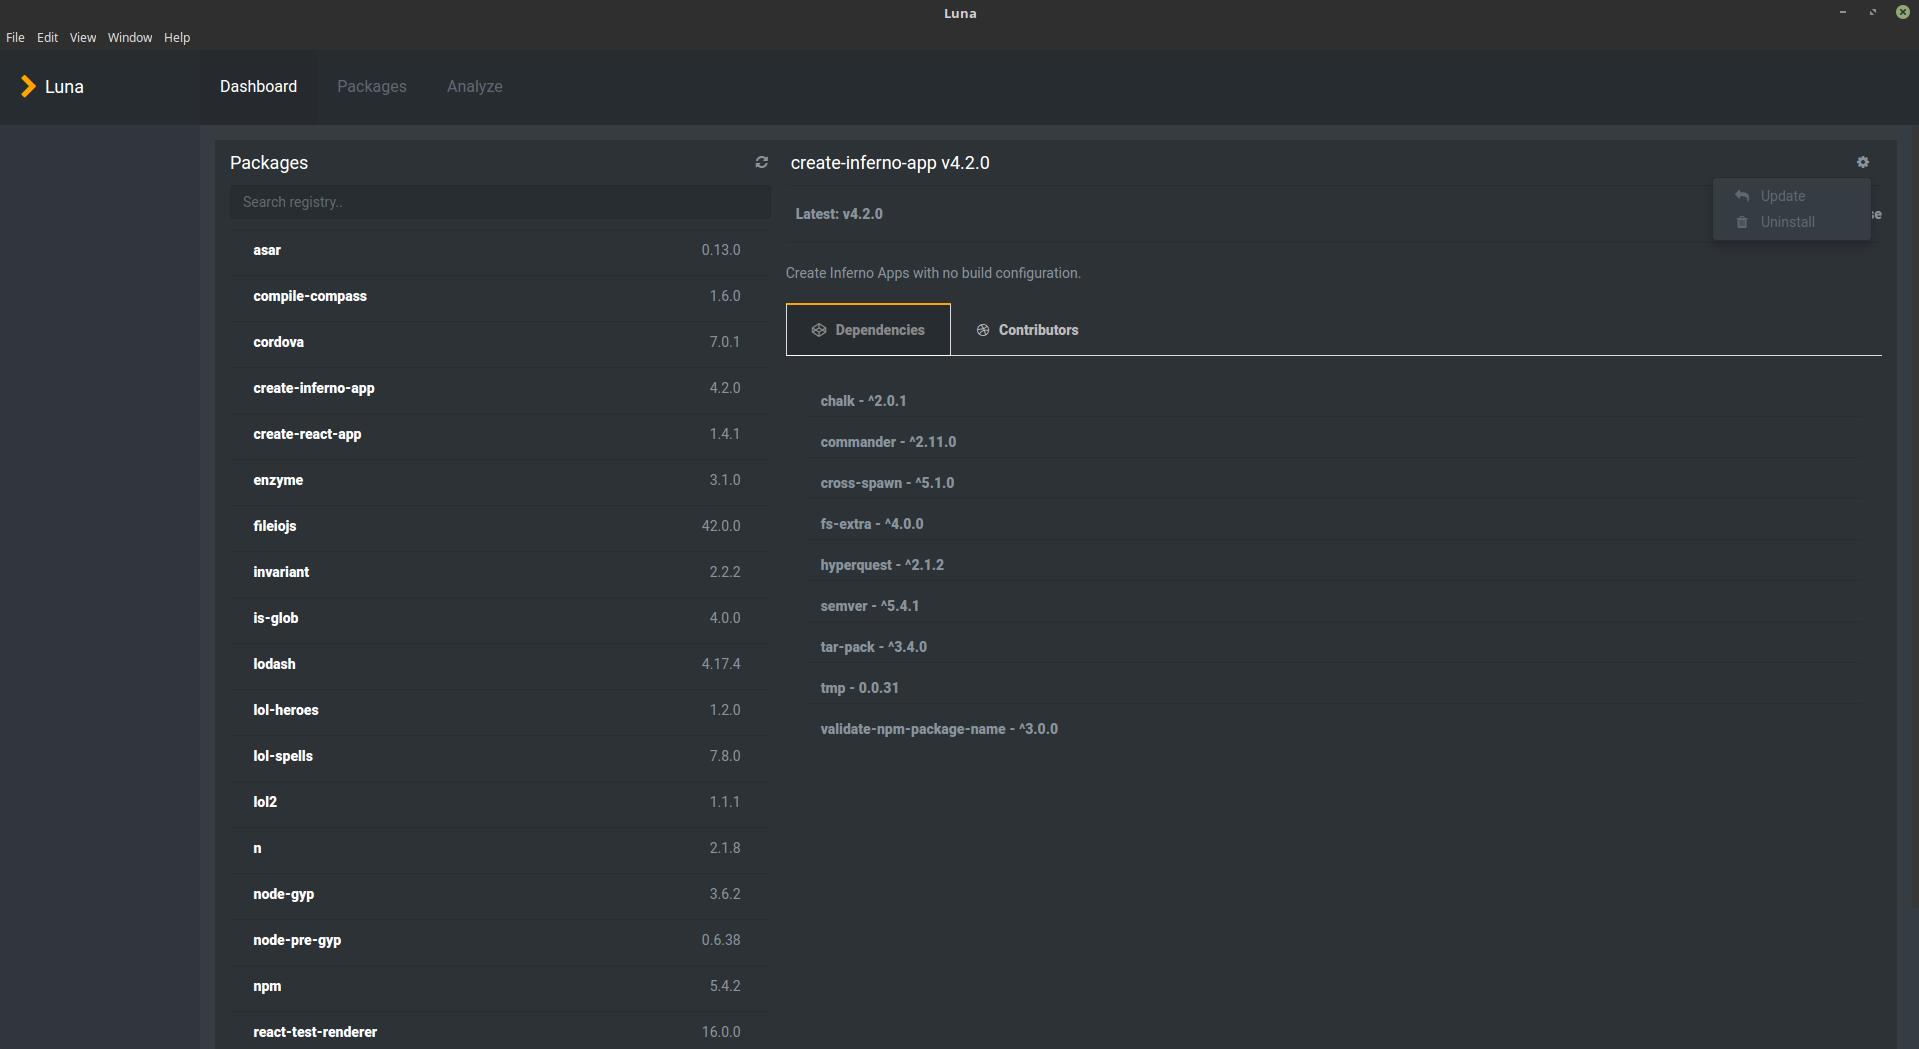
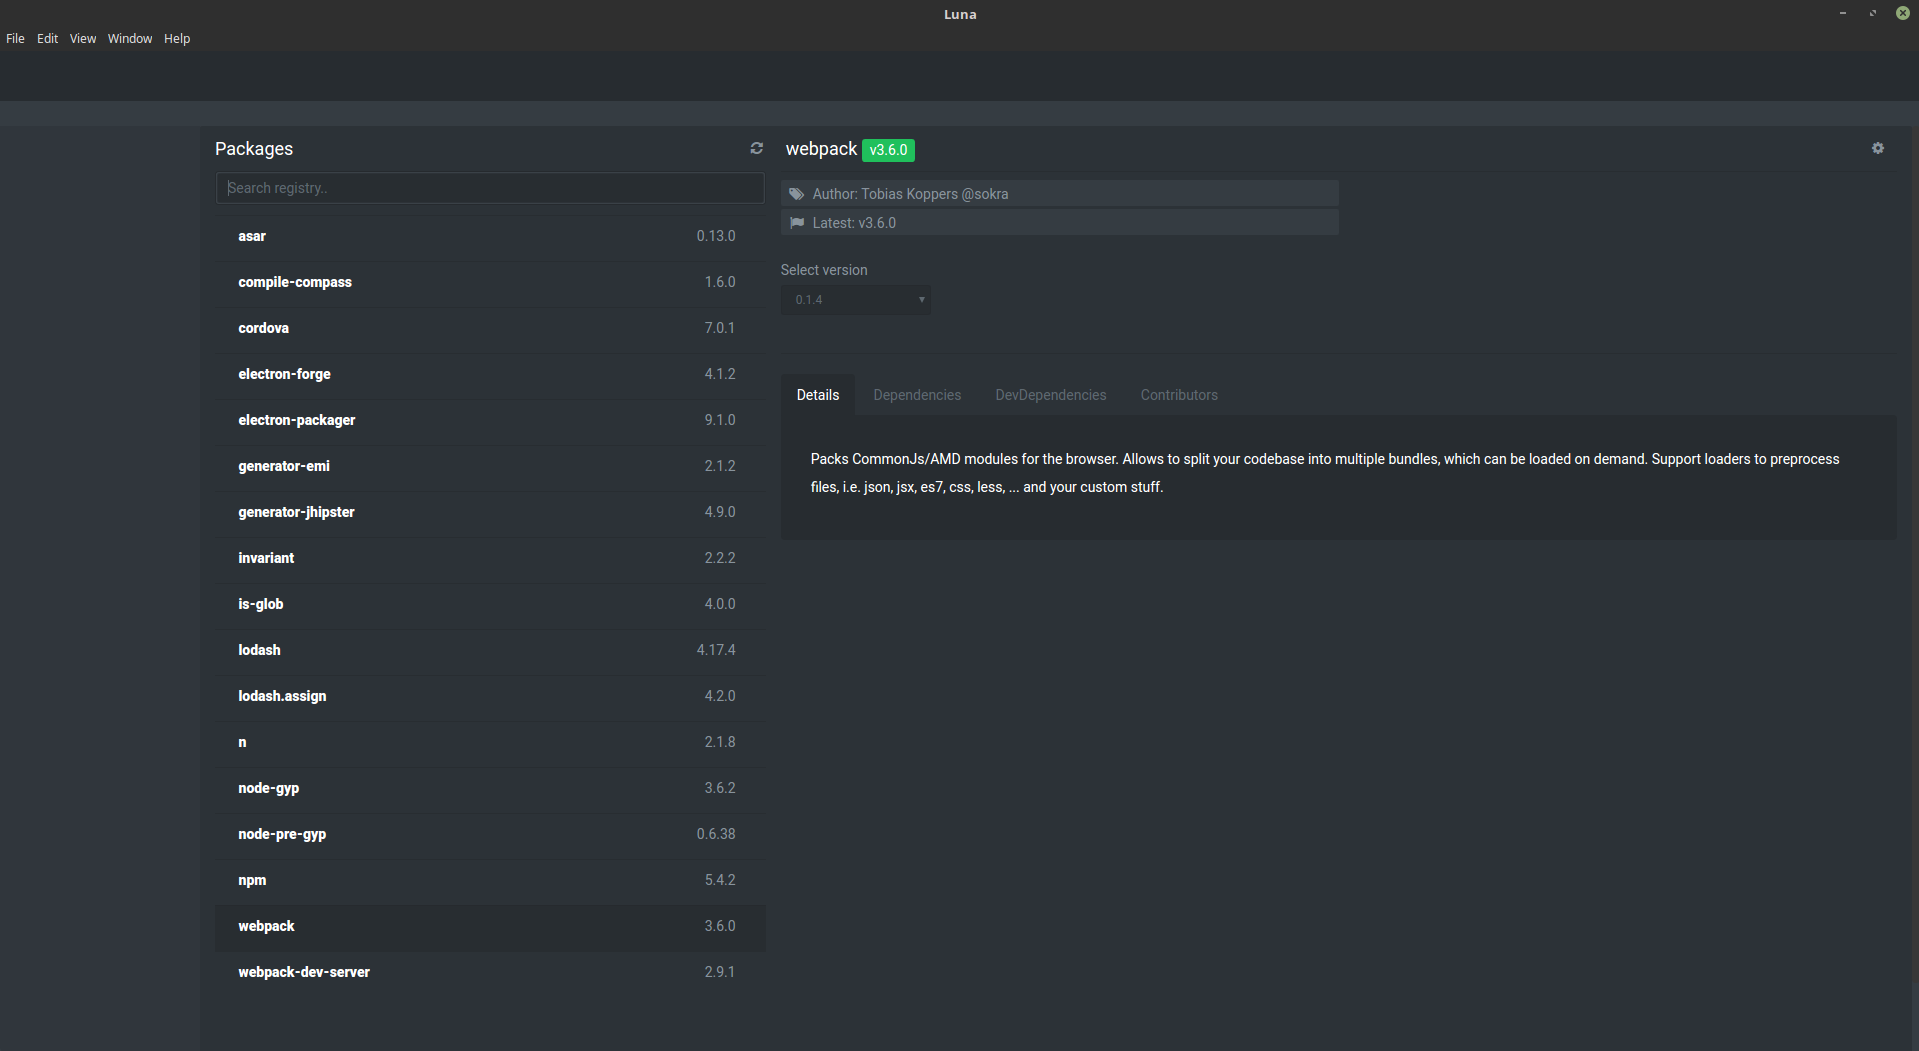
split PackageTabs in PackageDetails component

diff --git a/renderer-process/components/package/PackageDetails.js b/renderer-process/components/package/PackageDetails.js
@@ -2,7 +2,7 @@ import config from '../../../config';
 import {remote, ipcRenderer} from 'electron';
 import React from 'react';
 import Loader from '../../common/Loader';
-import {StaticList} from '../../common/Statics';
+import PackageTabs from './partials/PackageTabs';
 import {showMessageBox, makeRequest} from '../../../utils';
 
 class PackageDetails extends React.Component {
@@ -93,6 +93,8 @@ class PackageDetails extends React.Component {
     ipcRenderer.on('view-by-version-reply', (event, pkg) => {
       this.props.setActive(pkg, false);
     });
+
+    //TODO
     // ipcRenderer.on('get-package-reply', (event, pkg) => {
     //   console.log(pkg);
     // });
@@ -149,54 +151,12 @@ class PackageDetails extends React.Component {
         </div>
         <div className="package-details__body">
           <Loader loading={this.props.isLoading}>
-            <div className="package-details__text">{pkg.description}</div>
-            <ul className="nav nav-tabs" role="tablist">
-              <li className="dropdown pull-right tabdrop hide">
-                <a className="dropdown-toggle" data-toggle="dropdown" href="#">
-                  <i className="icon-align-justify"></i>
-                  <b className="caret"></b>
-                </a>
-                <ul className="dropdown-menu"></ul>
-              </li>
-              <li className="active" role="presentation">
-                <a href="#dependencies" aria-controls="dependencies" role="tab" data-toggle="tab" aria-expanded="true">Dependencies</a>
-              </li>
-              <li role="presentation">
-                <a href="#devDependencies" aria-controls="devDependencies" role="tab" data-toggle="tab" aria-expanded="true">DevDependencies</a>
-              </li>
-              <li role="presentation">
-                <a href="#maintainers" aria-controls="maintainers" role="tab" data-toggle="tab" aria-expanded="true">Contributors</a>
-              </li>
-            </ul>
-            <div className="tab-content">
-              <div className="tab-pane active" id="dependencies" role="tabpanel">
-                <StaticList data={pkg.dependencies}/>
-              </div>
-              <div className="tab-pane" id="devDependencies" role="tabpanel">
-                <StaticList data={pkg.devDependencies}/>
-              </div>
-              <div className="tab-pane" id="maintainers" role="tabpanel">
-                <StaticList data={pkg.maintainers}/>
-              </div>
-            </div>
-
-            <div className="package-details__tabs tab-wrap" style={{
-              display: 'none'
-            }}>
-              <input id="tab1" type="radio" name="tabs" defaultChecked/>
-              <label htmlFor="tab1">Dependencies</label>
-              <input id="tab2" type="radio" name="tabs"/>
-              <label htmlFor="tab2">DevDependencies</label>
-              <input id="tab3" type="radio" name="tabs"/>
-              <label htmlFor="tab3">Contributors</label>
-              <section id="devDependencies-content"></section>
-              <section id="dependencies-content">
-                <StaticList data={pkg.dependencies}/>
-              </section>
-              <section id="contributors-content">
-                <StaticList data={pkg.maintainers}/>
-              </section>
-            </div>
+            <PackageTabs
+              description={pkg.description}
+              devDependencies={pkg.devDependencies}
+              dependencies={pkg.dependencies}
+              maintainers={pkg.maintainers}
+          />
           </Loader>
         </div>
       </div>

diff --git a/renderer-process/components/package/partials/PackageTabs.js b/renderer-process/components/package/partials/PackageTabs.js
@@ -1,0 +1,46 @@
+import React from 'react';
+import {PackageTabsList} from './PackageTabsList';
+
+const PackageTabs = (props) => {
+  return (
+    <div className="package-tabs">
+      <ul className="nav nav-tabs" role="tablist">
+        <li className="dropdown pull-right tabdrop hide">
+          <a className="dropdown-toggle" data-toggle="dropdown" href="#">
+            <i className="icon-align-justify"></i>
+            <b className="caret"></b>
+          </a>
+          <ul className="dropdown-menu"></ul>
+        </li>
+        <li className="active" role="presentation">
+          <a href="#details" aria-controls="details" role="tab" data-toggle="tab" aria-expanded="true">Details</a>
+        </li>
+        <li role="presentation">
+          <a href="#dependencies" aria-controls="dependencies" role="tab" data-toggle="tab" aria-expanded="true">Dependencies</a>
+        </li>
+        <li role="presentation">
+          <a href="#devDependencies" aria-controls="devDependencies" role="tab" data-toggle="tab" aria-expanded="true">DevDependencies</a>
+        </li>
+        <li role="presentation">
+          <a href="#maintainers" aria-controls="maintainers" role="tab" data-toggle="tab" aria-expanded="true">Contributors</a>
+        </li>
+      </ul>
+      <div className="tab-content">
+        <div className="tab-pane active" id="details" role="tabpanel">
+          <div className="package-details__text">{props.description}</div>
+        </div>
+        <div className="tab-pane" id="dependencies" role="tabpanel">
+          <PackageTabsList data={props.dependencies}/>
+        </div>
+        <div className="tab-pane" id="devDependencies" role="tabpanel">
+          <PackageTabsList data={props.devDependencies}/>
+        </div>
+        <div className="tab-pane" id="maintainers" role="tabpanel">
+          <PackageTabsList data={props.maintainers}/>
+        </div>
+      </div>
+    </div>
+  )
+}
+
+export default PackageTabs

diff --git a/renderer-process/components/package/partials/PackageTabsList.js b/renderer-process/components/package/partials/PackageTabsList.js
@@ -1,6 +1,6 @@
 import React from 'react';
 
-const StaticListItem = (props) => {
+const PackageTabsListItem = (props) => {
   return (
     <div className="list-widget__item">
       <div className="list-widget__info">
@@ -14,13 +14,7 @@ const StaticListItem = (props) => {
   )
 }
 
-exports.OptionItems = (props) => {
-  return (
-    <option id={props.idx}>{props.name}</option>
-  )
-}
-
-exports.StaticList = (props) => {
+exports.PackageTabsList = (props) => {
   let items = props.data,
     data;
   if (Object.prototype.toString.call(items) !== '[object Array]') {
@@ -37,7 +31,7 @@ exports.StaticList = (props) => {
       <div className="list-widget__cont">
         <div className="list-widget__list">
           {(data.length) ? data.map((name, idx) => {
-            return <StaticListItem key={idx} name={name} />
+            return <PackageTabsListItem key={idx} name={name} />
           }): 'No data'}
         </div>
       </div>
